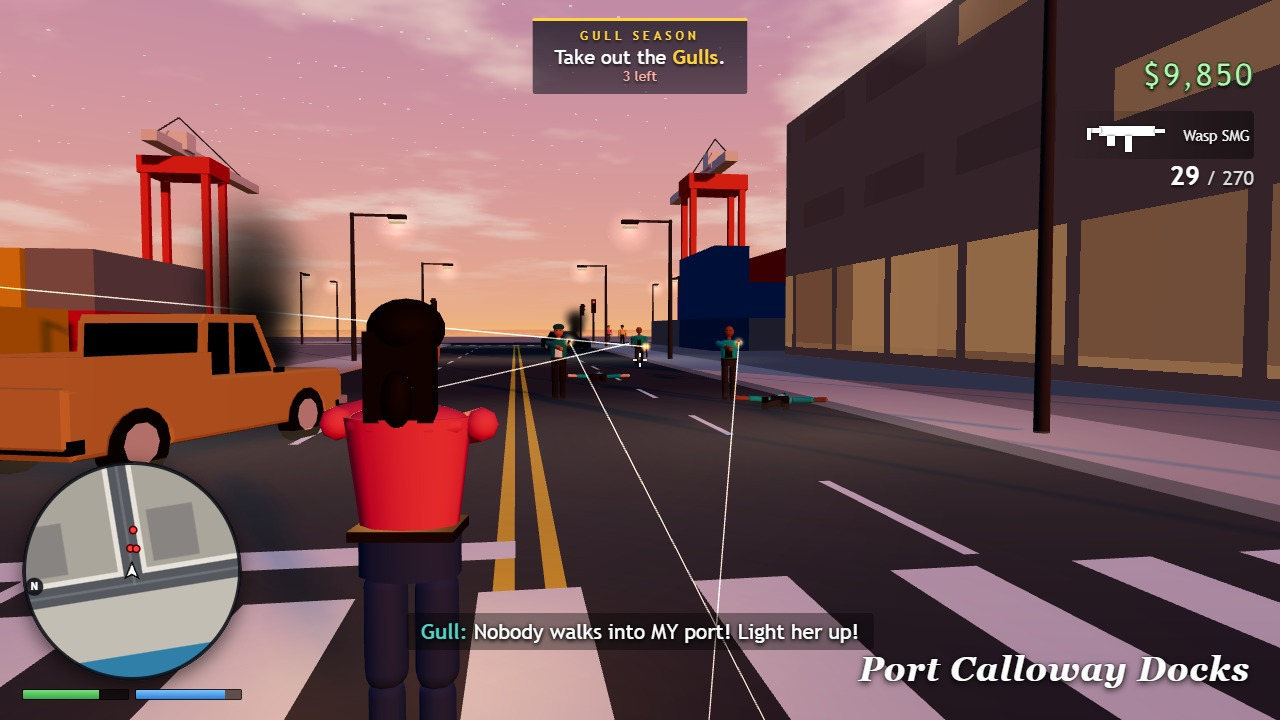
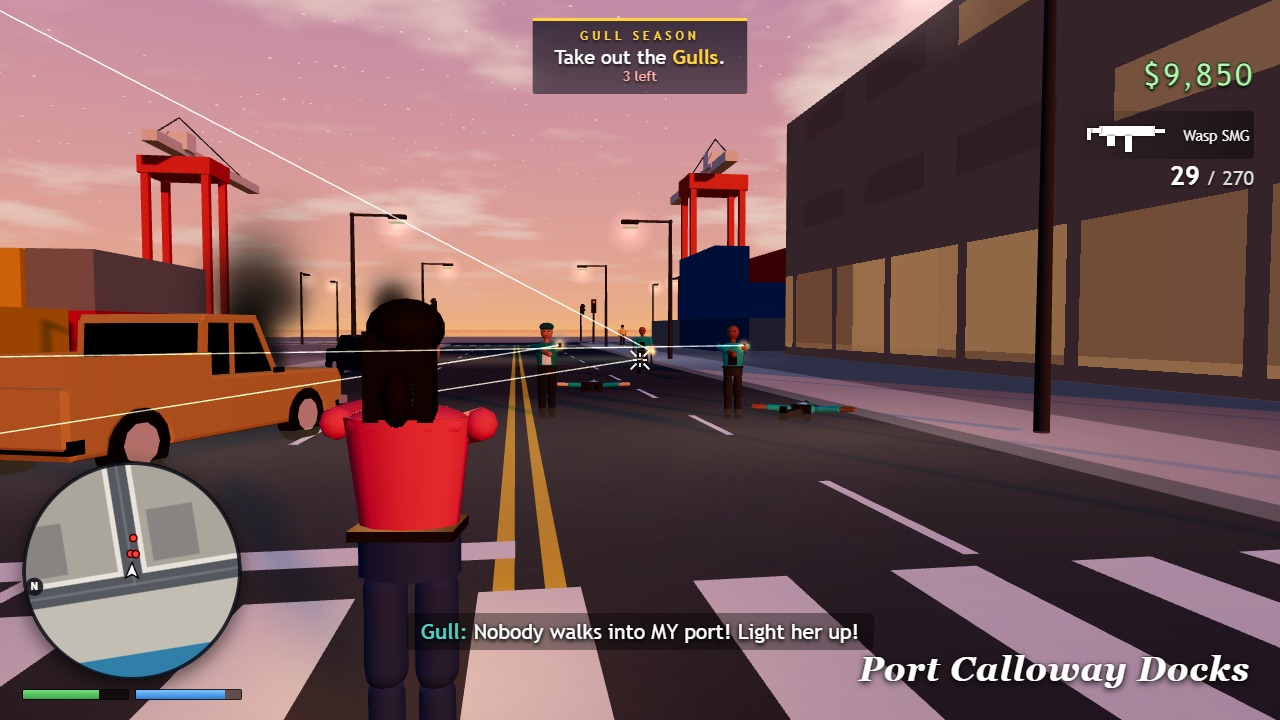
Shootout staging with burning wreck; drop preserveDrawingBuffer

diff --git a/game/src/shots/screenshotScenes.js b/game/src/shots/screenshotScenes.js
@@ -148,23 +148,24 @@ function shootout(game, stepDt) {
   const cover = game.vehicleSystem.spawn('dune', 519, -205, Math.PI / 2 - 0.35, 0xe9c46a);
   cover.persistent = true;
   cover.health = 300;
-  const wreck = game.vehicleSystem.spawn('marlin', 571, -196, -Math.PI / 2 + 0.5, 0x2c3e50);
+  const wreck = game.vehicleSystem.spawn('marlin', 538, -205.5, -Math.PI / 2 + 0.6, 0x2c3e50);
   wreck.persistent = true;
-  wreck.health = 150;
+  wreck.health = 0;
+  wreck.fireTimer = 1e6;
   // Keep the gang on the road in front of the player.
   const gang = game.peds.filter((e) => e.role === 'gang');
   const spots = [
-    [523, -194.5],
-    [529, -198.8],
-    [534, -191.8],
-    [541, -196.2],
-    [552, -192.5],
+    [521, -194.8],
+    [526, -199.2],
+    [531, -192.2],
+    [537, -196.8],
+    [546, -193.2],
   ];
   gang.forEach((g, i) => {
     const [x, z] = spots[i % spots.length];
     g.position.set(x, 0, z);
     g.ai.post = { x, z };
-    g.ai.range = 11;
+    g.ai.range = 7;
   });
   const original = game.controller.update;
   game.controller.update = (dt) => {

diff --git a/game/src/render/renderer.js b/game/src/render/renderer.js
@@ -2,7 +2,7 @@
 import * as THREE from 'three';
 
 export function createRenderer(canvas, settings) {
-  const renderer = new THREE.WebGLRenderer({ canvas, antialias: true, powerPreference: 'high-performance', preserveDrawingBuffer: true });
+  const renderer = new THREE.WebGLRenderer({ canvas, antialias: true, powerPreference: 'high-performance' });
   renderer.setPixelRatio(Math.min(window.devicePixelRatio, 1.5));
   renderer.outputColorSpace = THREE.SRGBColorSpace;
   renderer.toneMapping = THREE.ACESFilmicToneMapping;
